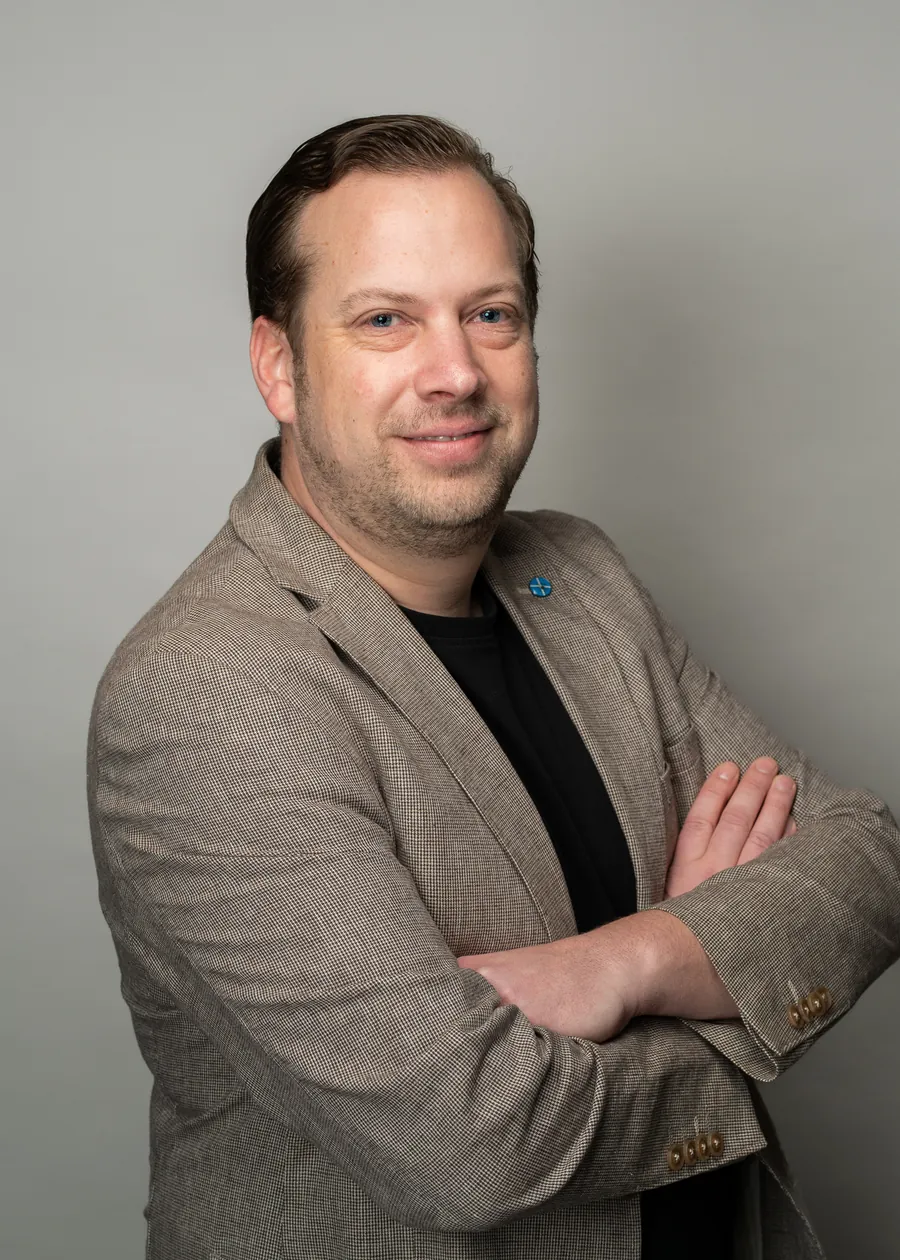
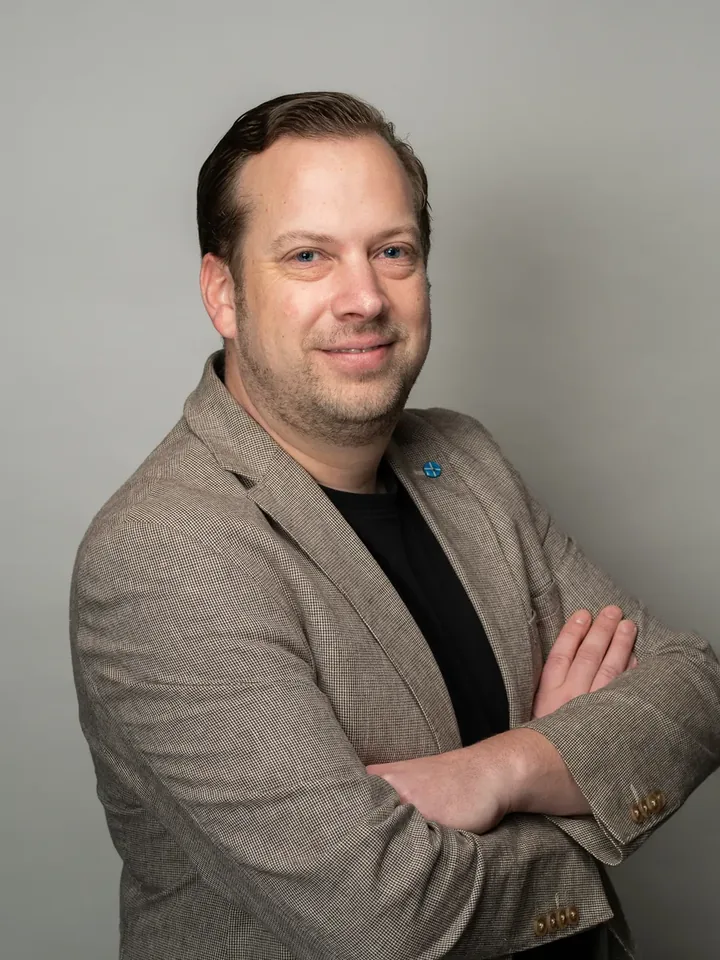
Over ons: teamfoto's + nieuw teamlid Mitchel + uniforme portretten (#38)
* Over ons: teamfoto's Micael, Babette en Steven + nieuw teamlid Mitchel

- Portretten geplaatst voor Micael, Babette en Steven (waren placeholders)
- Nieuwe teamkaart Mitchel (mitchel@legalit.nl) toegevoegd
- Foto's naar 3/4 portret-webp (~20 KB), passend bij bestaande stijl

Claude-Session: https://claude.ai/code/session_01EyUcXyXf5LDv5vTfg6ya2V

* Over ons: bestaande portretten Sander, Nigel en Maarten naar 3/4-formaat

Zelfde afmetingen (720x960) en beeldverhouding als de nieuwe teamfoto's,
voor een uniforme teamsectie.

Claude-Session: https://claude.ai/code/session_01EyUcXyXf5LDv5vTfg6ya2V

---------

Changed region(s): [[0.0917, 0.0938, 1.0, 1.0]]

diff --git a/over-ons.html b/over-ons.html
@@ -246,12 +246,13 @@
       <p style="max-width:38ch; color:var(--ink-soft);">Een vast team van specialisten staat voor u klaar — deskundig, benaderbaar en betrokken.</p>
     </div>
     <div class="team-grid">
-      <div class="team-card reveal" data-delay="1"><div class="ph"><img src="images/ph-portret-1.webp" alt="Portret van Micael, teamlid bij Legal IT" loading="lazy" onerror="this.style.display='none'"><span class="ph-label">Portret</span></div><h4>Micael</h4><p class="team-contact"><a href="mailto:micael@legalit.nl">micael@legalit.nl</a></p></div>
-      <div class="team-card reveal" data-delay="2"><div class="ph"><img src="images/ph-portret-2.webp" alt="Portret van Babette, teamlid bij Legal IT" loading="lazy" onerror="this.style.display='none'"><span class="ph-label">Portret</span></div><h4>Babette</h4><p class="team-contact"><a href="mailto:babette@legalit.nl">babette@legalit.nl</a></p></div>
+      <div class="team-card reveal" data-delay="1"><div class="ph"><img src="images/portret-micael.webp" alt="Portret van Micael, teamlid bij Legal IT" loading="lazy" onerror="this.style.display='none'"><span class="ph-label">Portret</span></div><h4>Micael</h4><p class="team-contact"><a href="mailto:micael@legalit.nl">micael@legalit.nl</a></p></div>
+      <div class="team-card reveal" data-delay="2"><div class="ph"><img src="images/portret-babette.webp" alt="Portret van Babette, teamlid bij Legal IT" loading="lazy" onerror="this.style.display='none'"><span class="ph-label">Portret</span></div><h4>Babette</h4><p class="team-contact"><a href="mailto:babette@legalit.nl">babette@legalit.nl</a></p></div>
       <div class="team-card reveal" data-delay="3"><div class="ph"><img src="images/portret-sander.webp" alt="Portret van Sander, teamlid bij Legal IT" loading="lazy" onerror="this.style.display='none'"><span class="ph-label">Portret</span></div><h4>Sander</h4><p class="team-contact"><a href="mailto:sander@legalit.nl">sander@legalit.nl</a></p></div>
       <div class="team-card reveal" data-delay="4"><div class="ph"><img src="images/portret-nigel.webp" alt="Portret van Nigel, teamlid bij Legal IT" loading="lazy" onerror="this.style.display='none'"><span class="ph-label">Portret</span></div><h4>Nigel</h4><p class="team-contact"><a href="mailto:nigel@legalit.nl">nigel@legalit.nl</a></p></div>
       <div class="team-card reveal" data-delay="5"><div class="ph"><img src="images/portret-maarten.webp" alt="Portret van Maarten, teamlid bij Legal IT" loading="lazy" onerror="this.style.display='none'"><span class="ph-label">Portret</span></div><h4>Maarten</h4><p class="team-contact"><a href="mailto:maarten@legalit.nl">maarten@legalit.nl</a></p></div>
-      <div class="team-card reveal" data-delay="2"><div class="ph"><img src="images/ph-portret-2.webp" alt="Portret van Steven, teamlid bij Legal IT" loading="lazy" onerror="this.style.display='none'"><span class="ph-label">Portret</span></div><h4>Steven</h4><p class="team-contact"><a href="mailto:steven@legalit.nl">steven@legalit.nl</a><br><a href="tel:+31622084238">+31 6 22 08 42 38</a></p></div>
+      <div class="team-card reveal" data-delay="2"><div class="ph"><img src="images/portret-steven.webp" alt="Portret van Steven, teamlid bij Legal IT" loading="lazy" onerror="this.style.display='none'"><span class="ph-label">Portret</span></div><h4>Steven</h4><p class="team-contact"><a href="mailto:steven@legalit.nl">steven@legalit.nl</a><br><a href="tel:+31622084238">+31 6 22 08 42 38</a></p></div>
+      <div class="team-card reveal" data-delay="3"><div class="ph"><img src="images/portret-mitchel.webp" alt="Portret van Mitchel, teamlid bij Legal IT" loading="lazy" onerror="this.style.display='none'"><span class="ph-label">Portret</span></div><h4>Mitchel</h4><p class="team-contact"><a href="mailto:mitchel@legalit.nl">mitchel@legalit.nl</a></p></div>
     </div>
   </div>
 </section>
